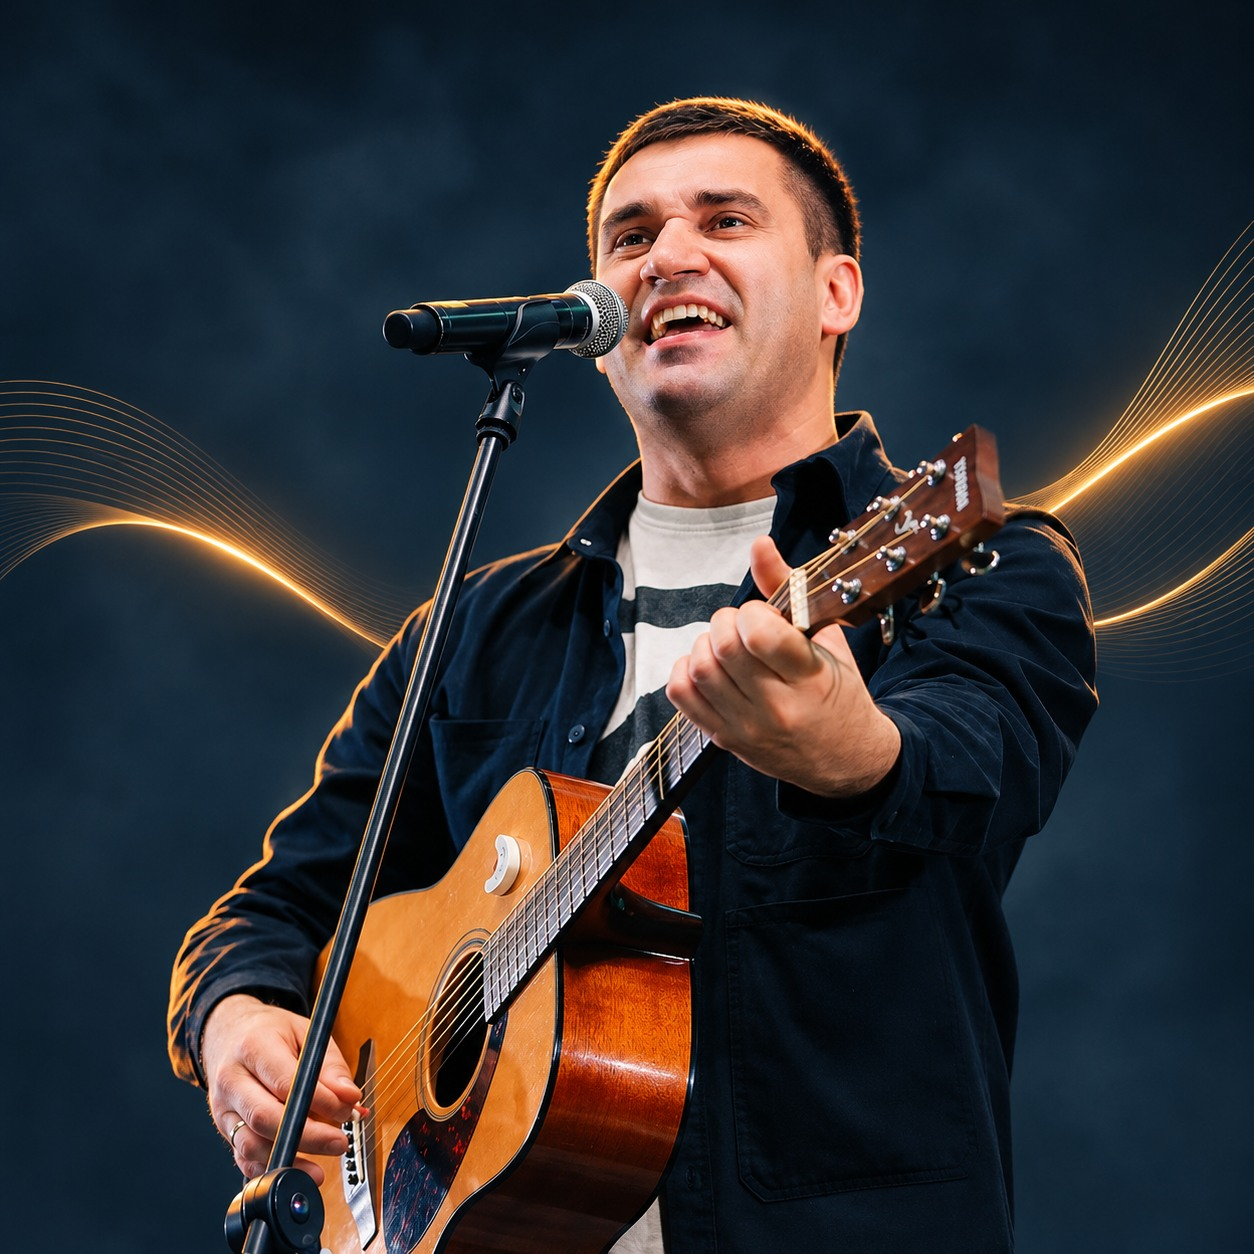
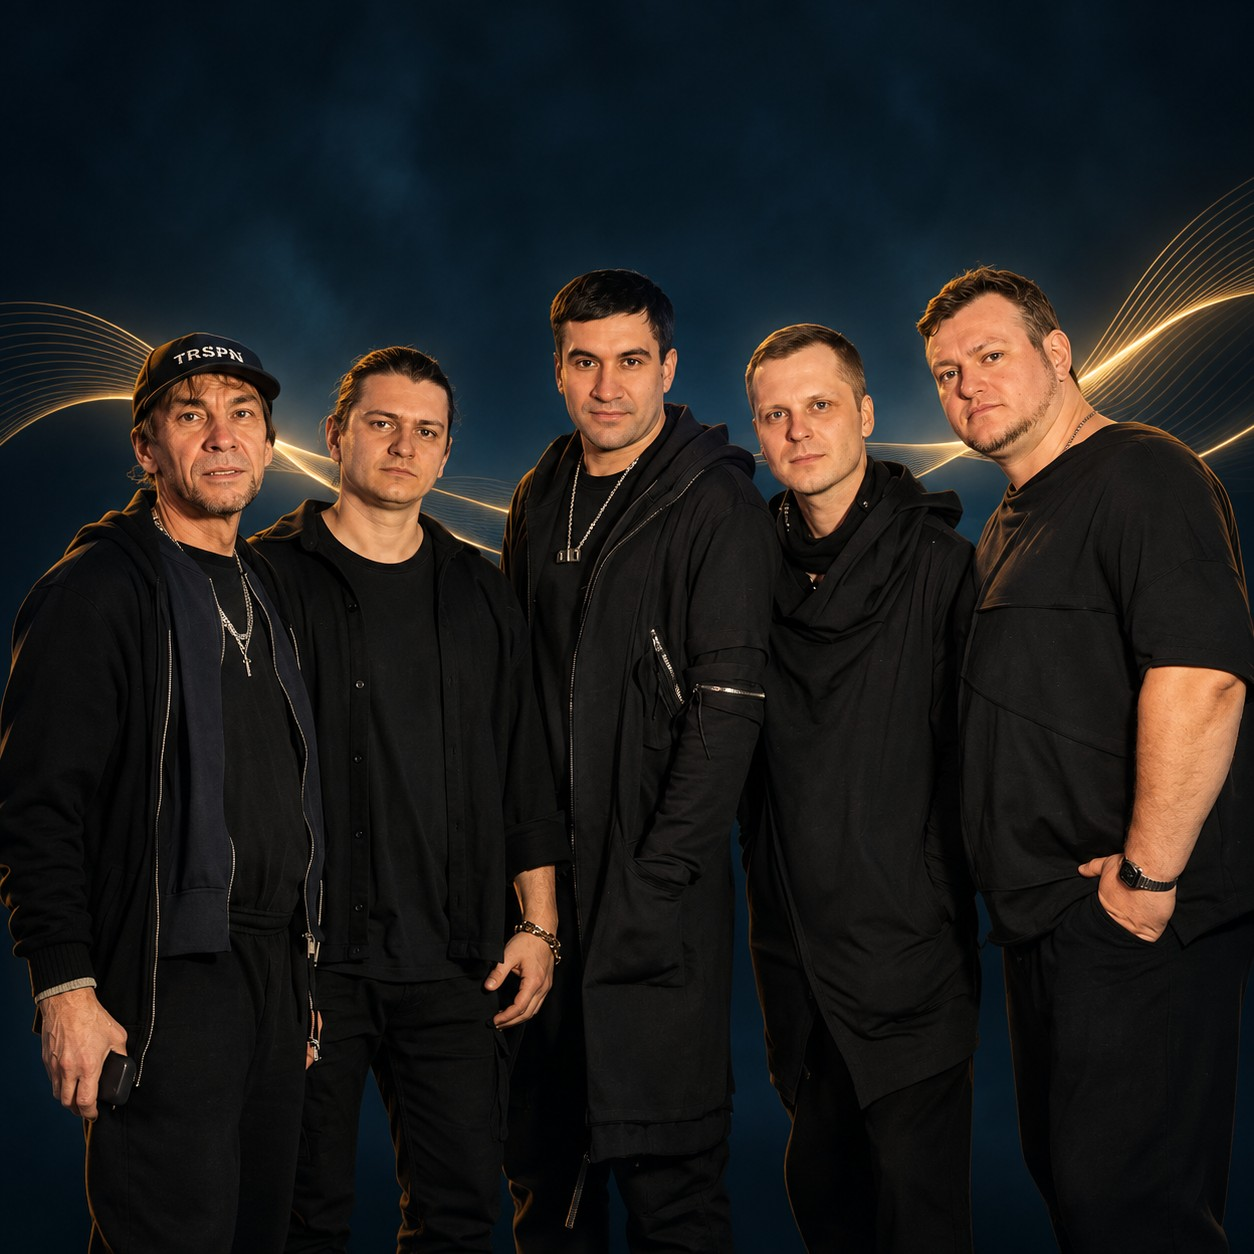
Add files via upload

diff --git a/index.html b/index.html
@@ -92,7 +92,7 @@
         </article>
         <article class="artist-card">
           <div class="artist-photo"><img src="images/artists/dmitry-klychkov.jpg" alt="Дмитрий Клычков" loading="lazy" onerror="this.style.display='none'"><span class="photo-fallback">ДК</span></div>
-          <h3>Дмитрий Клычков</h3><p>Автор-исполнитель. Финалист проекта Олега Газманова «Родники».</p>
+          <h3>Дмитрий Клычков и группа «АртиШок»</h3><p>Заслуженный артист Республики Абхазия<br>Участник шоу «Голос»<br>Автор-исполнитель<br>Жанр: рок / поп-рок</p>
         </article>
       </div>
     </section>
@@ -111,6 +111,11 @@
           <div class="guest-photo"><img src="images/guests/roman-sorokin.jpg" alt="Роман Сорокин" loading="lazy" onerror="this.style.display='none'"><span class="photo-fallback">РС</span></div>
           <h3>Роман Сорокин</h3>
           <p class="guest-description">Поэт<br>Артист<br>Режиссёр Московского театра поэтов Влада Маленко</p>
+        </article>
+        <article class="guest-card">
+          <div class="guest-photo"><img src="images/guests/boris-legenda.jpg" alt="Борис Легенда" loading="lazy" onerror="this.style.display='none'"><span class="photo-fallback">БЛ</span></div>
+          <h3>Борис Легенда</h3>
+          <p class="guest-description">Специальный гость благотворительного музыкального вечера «ДаБро». Участник встречи, объединяющей творчество, добрые дела и поддержку людей.</p>
         </article>
       </div>
     </section>
